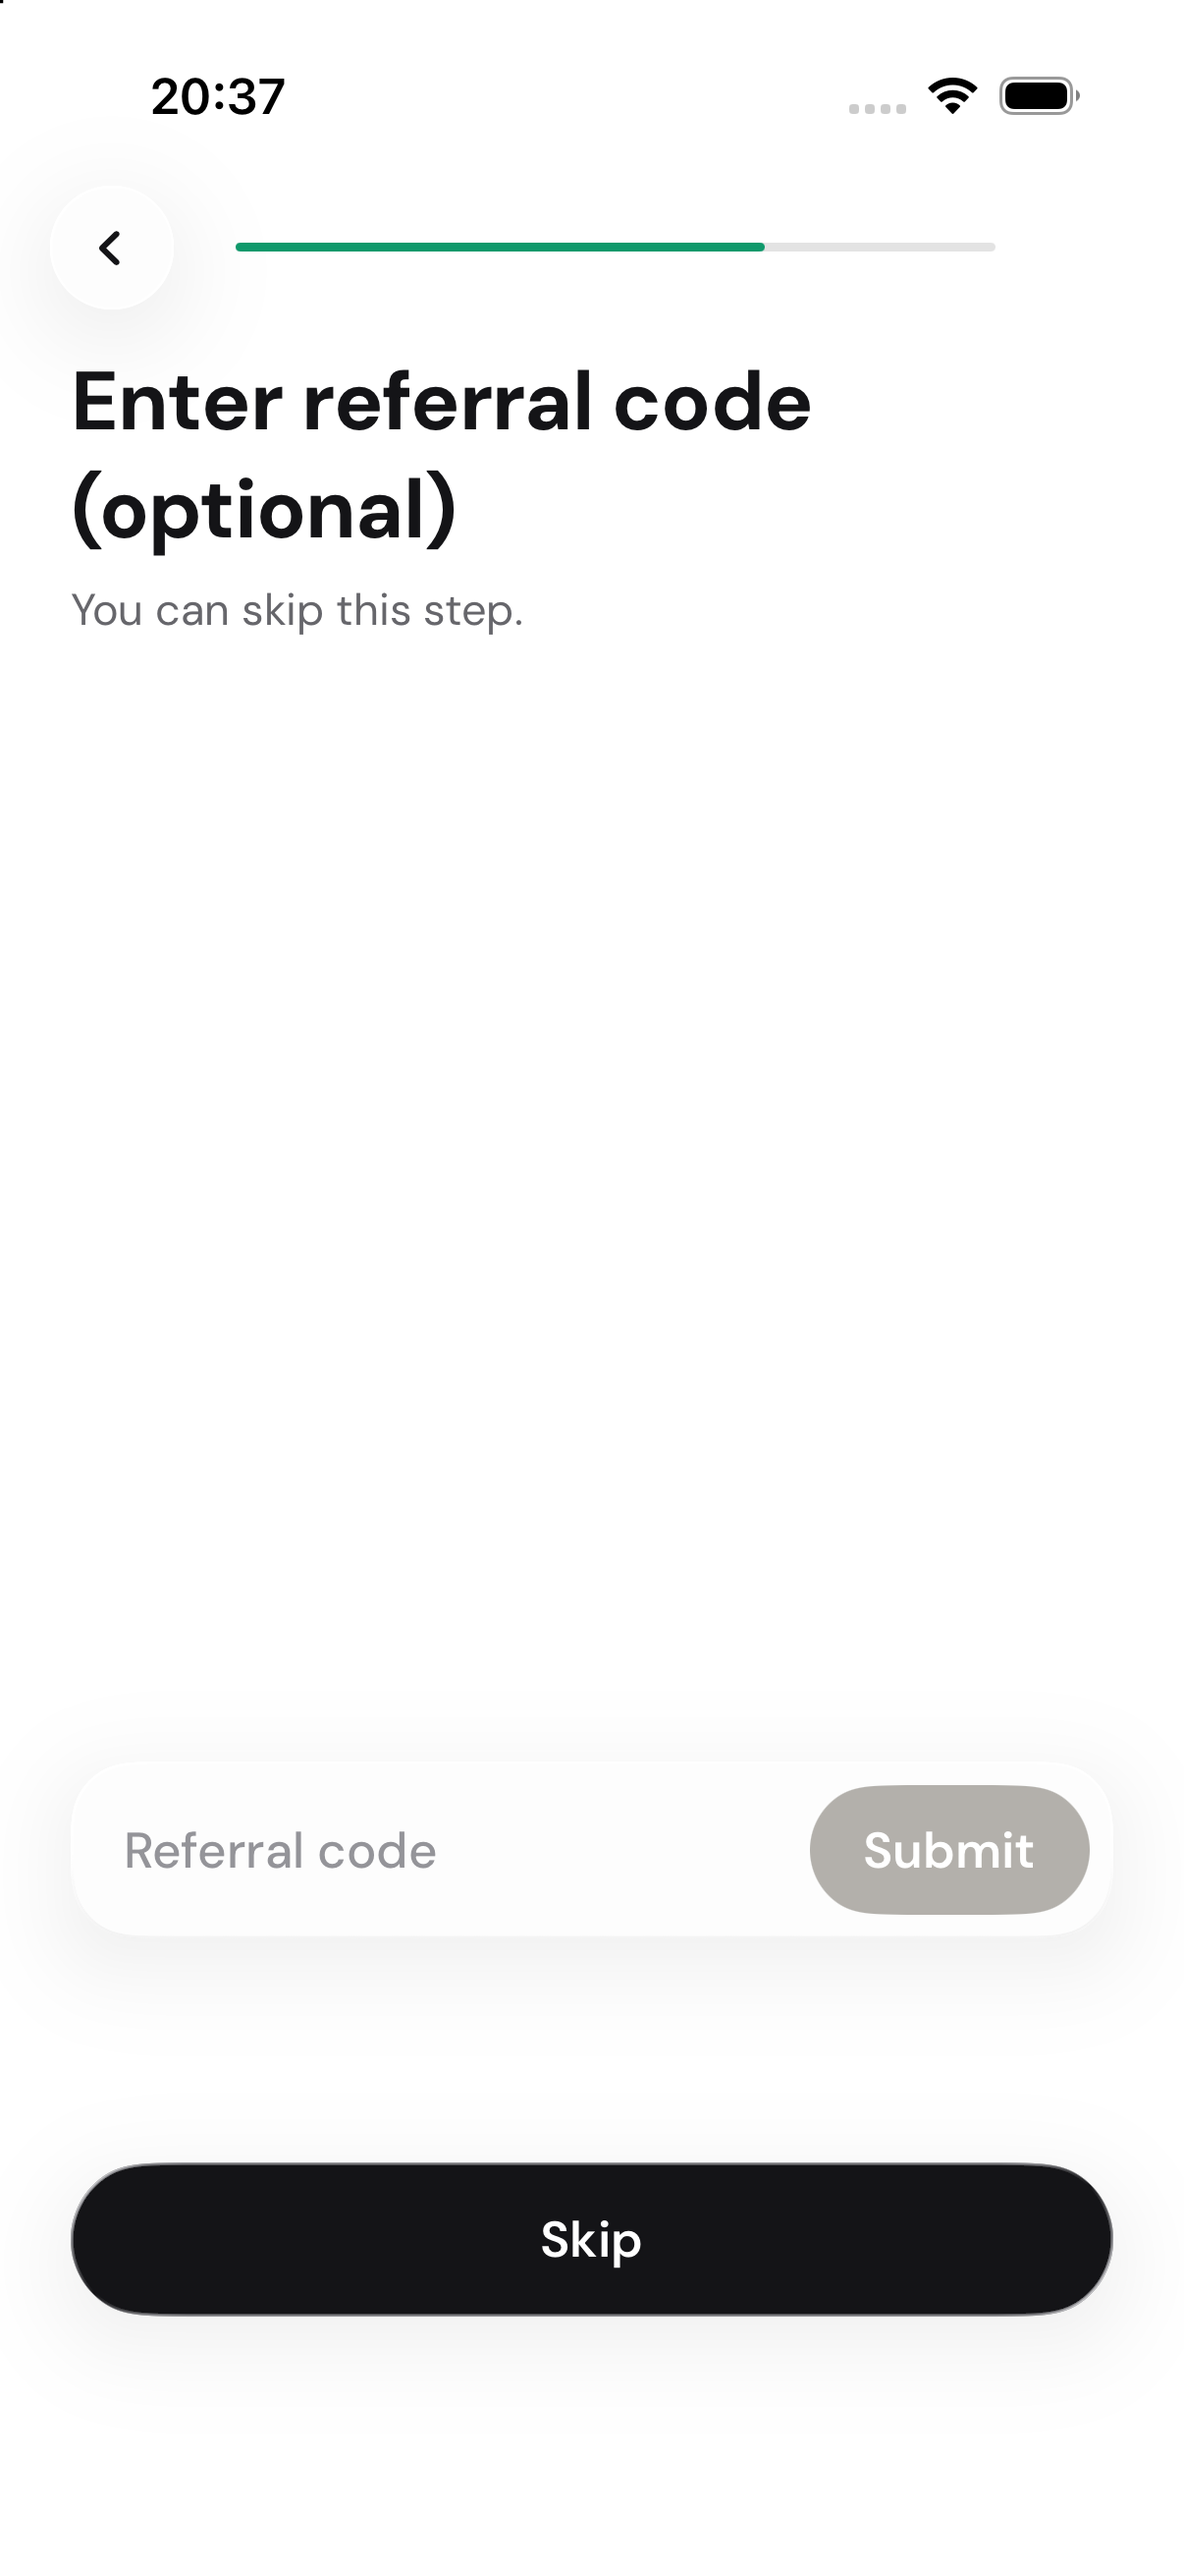
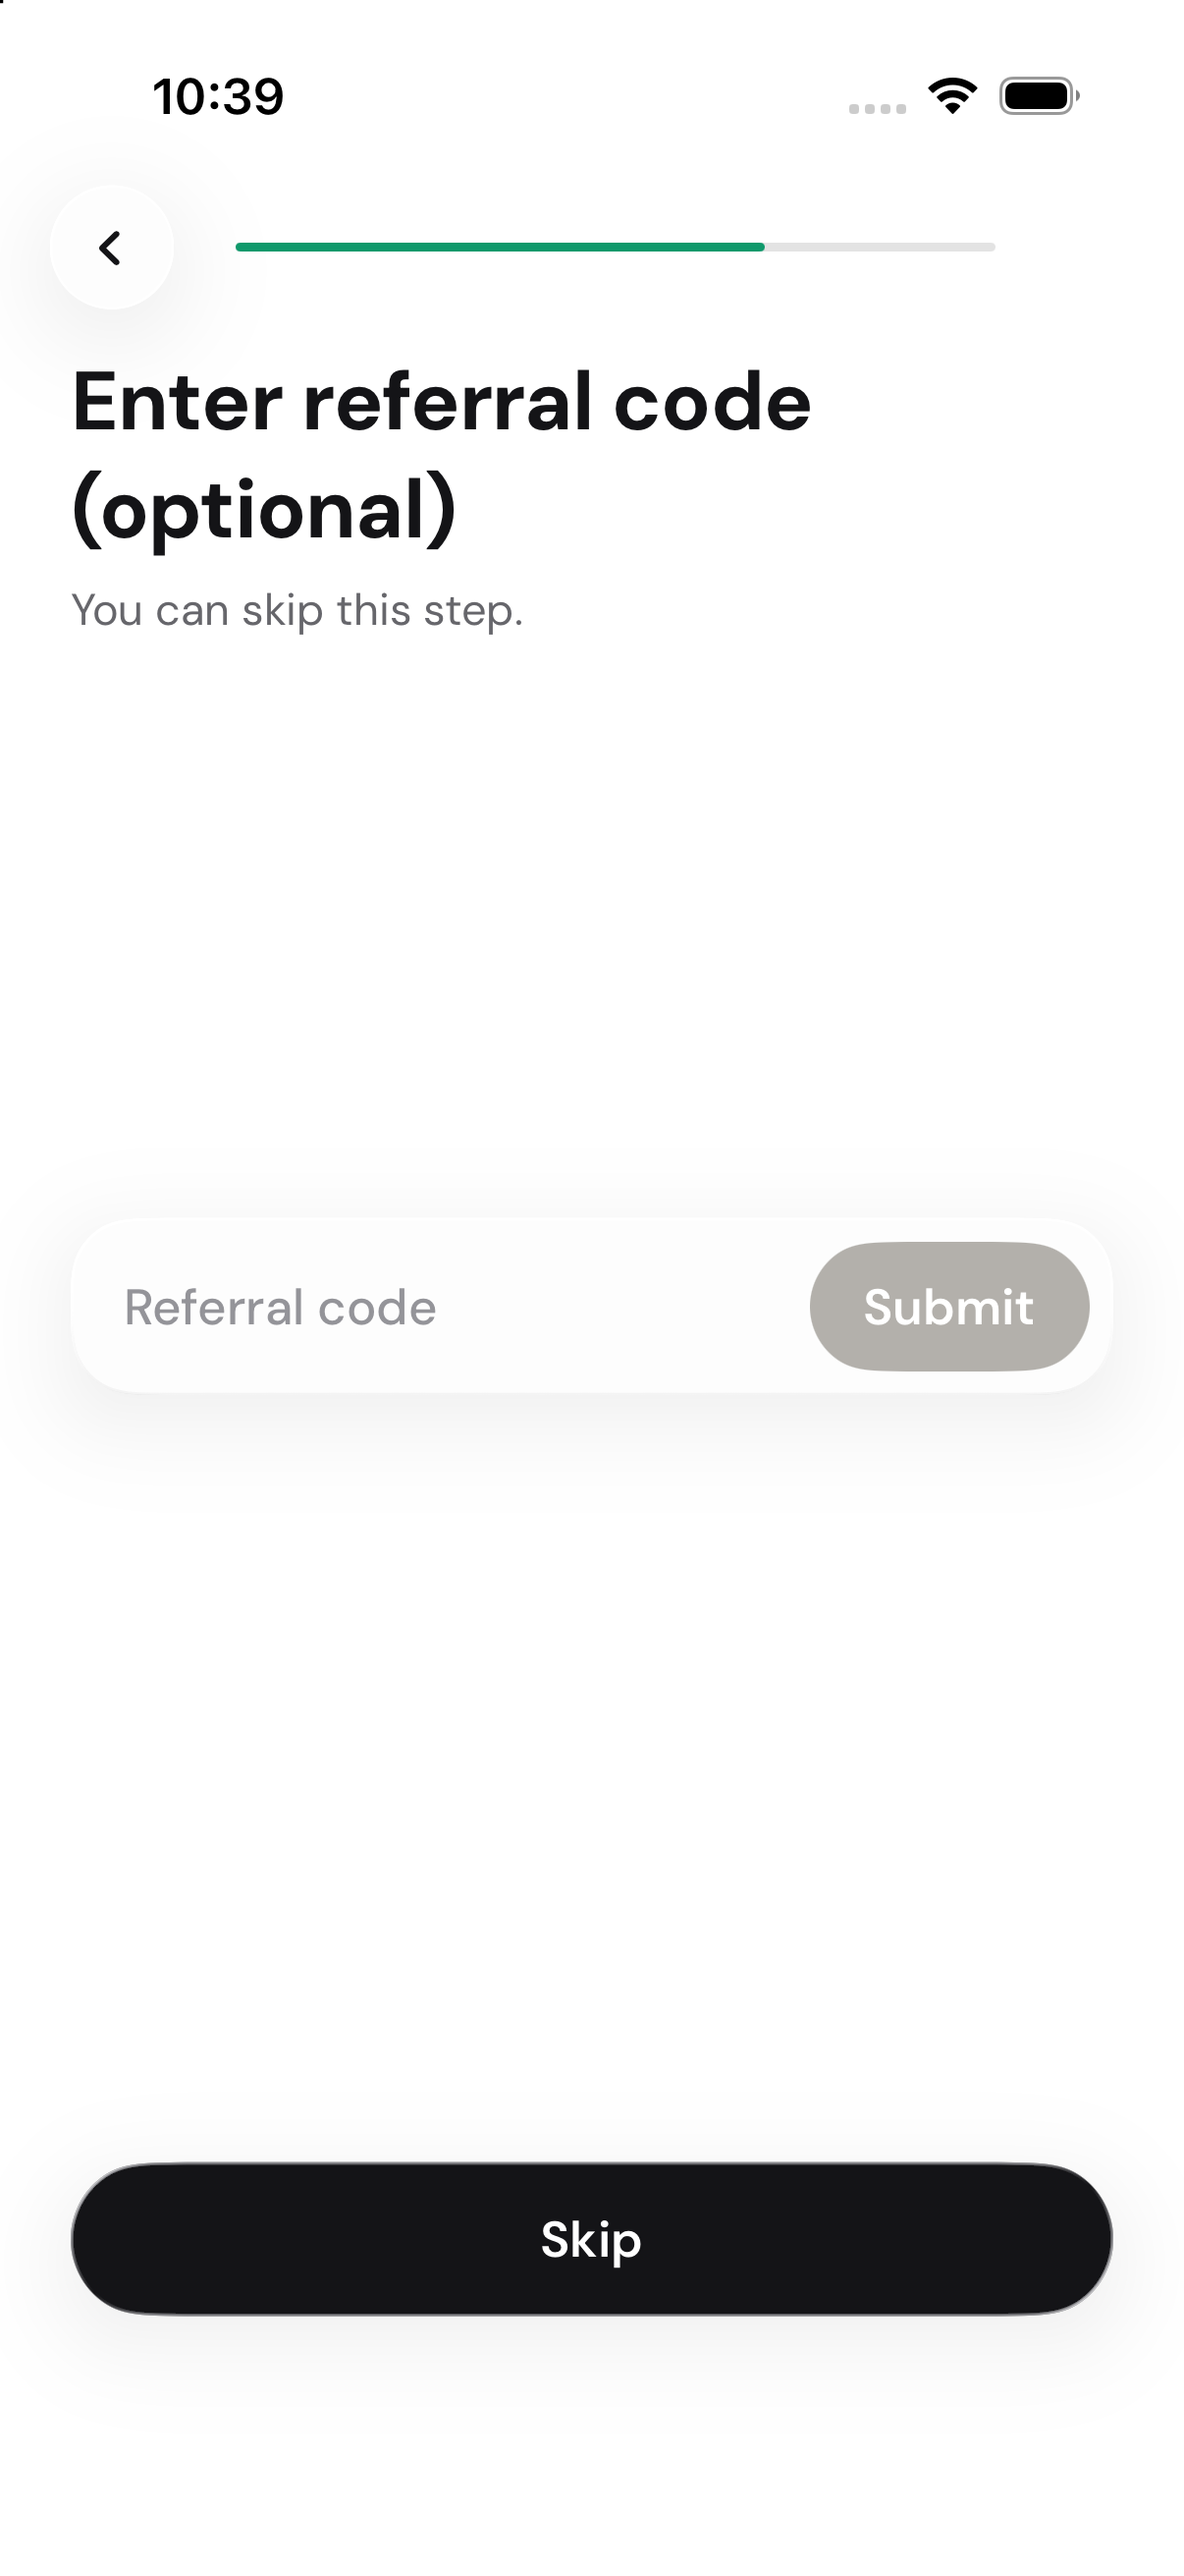
Referral box centred; Submit makes the silent account first if it's missing

diff --git a/GymBlock/BondViews.swift b/GymBlock/BondViews.swift
@@ -329,8 +329,8 @@ struct BondView: View {
 // MARK: - Onboarding
 
 /// The code page's field (after the commit, before the wall), as Cal AI's referral page (8 Nov 2026,
-/// at the user's request): one glass row with the field on the left and Submit on the right, low on
-/// the page; the keyboard waits for a tap. What came back from the server sits under it.
+/// at the user's request): one glass row with the field on the left and Submit on the right, in the
+/// middle of the page (9 Nov 2026); the keyboard waits for a tap. What came back from the server sits under it.
 struct BondCodeStage: View {
   @Binding var code: String
   let status: String?
@@ -366,6 +366,7 @@ struct BondCodeStage: View {
       Text(status ?? " ").font(JourneyType.caption).foregroundStyle(good ? JourneyColor.signalText : JourneyColor.secondary)
         .multilineTextAlignment(.center).frame(minHeight: 20).padding(.horizontal, 8)
         .accessibilityHidden(status == nil).accessibilityIdentifier("bond.status")
+      Spacer(minLength: 0)
     }
   }
 }

diff --git a/GymBlock/GymBond.swift b/GymBlock/GymBond.swift
@@ -147,7 +147,9 @@ import UserNotifications
   func redeem(_ raw: String, from source: String, t: (String) -> String) async -> RedeemResult {
     let clean = Self.normalize(raw)
     guard clean.count == 6 else { return .failed(t("Codes are six characters.")) }
-    guard live else { return .failed(t("Sign in to use a code.")) }
+    // No account yet: offline development runs can't have one; online, the silent account wasn't made
+    // (the caller tries again first), so it reads as a connection problem, which it usually is.
+    guard live else { return .failed(t(AppConfig.offline ? "Sign in to use a code." : "Couldn’t reach your account. Check your connection and try again.")) }
     guard !busy else { return .failed(t("One moment…")) }
     busy = true; defer { busy = false }
     do {

diff --git a/GymBlock/OnboardingJourney.swift b/GymBlock/OnboardingJourney.swift
@@ -735,6 +735,8 @@ struct OnboardingView: View {
     bondBusy = true
     dismissKeyboard()
     Task { @MainActor in
+      // The silent account from the commit page may have failed (offline then); one more try now.
+      if account.state != .signedIn { await account.signInAnonymously() }
       switch await GymBond.shared.redeem(bondDraft, from: "onboarding", t: store.t) {
       case .bonded(let name, _):
         bondGood = true
